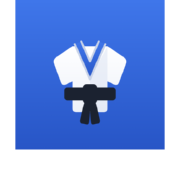
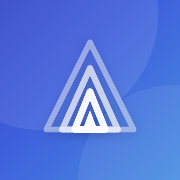
앱 아이콘과 카톡 미리보기 이미지를 새 디자인으로 교체
상단 배너를 원래의 파란 그라데이션으로 되돌린 만큼 아이콘도 맞췄다.

- 도복 그림 대신 배너와 같은 겹친 삼각형(K-STAR 단계) 표식
- 배경은 배너와 같은 파란 그라데이션, 흰 선에 그림자를 넣어
  홈 화면 작은 크기에서도 또렷하게 보이도록 함
- 카톡 미리보기 이미지도 새 아이콘과 새 단계 색(R 빨강 / A 청록 /
  T 보라 / S 파랑)으로 다시 그림
- 아이콘 주소에 ?v=2 를 붙이고 서비스워커 저장소를 v4로 올려
  기기에 남은 옛 아이콘이 계속 쓰이지 않게 함
- manifest theme_color 를 배너 색(#4A63E0)으로 통일

Claude-Session: https://claude.ai/code/session_019X6R4KipJqxm9tG7Tq54df

diff --git a/index.html b/index.html
@@ -4,14 +4,14 @@
 <meta charset="utf-8">
 <meta name="viewport" content="width=device-width,initial-scale=1">
 <title>K-STAR 현황판</title>
-<meta name="theme-color" content="#2B4FE0">
+<meta name="theme-color" content="#4A63E0">
 <meta name="apple-mobile-web-app-capable" content="yes">
 <meta name="mobile-web-app-capable" content="yes">
 <!-- 검색엔진 차단(noindex)은 뺐습니다. 미리보기를 읽어가는 쪽이 막힐 수 있어서입니다.
      로그인 전에는 아무 명단도 보이지 않으므로 공개돼도 노출되는 정보는 없습니다. -->
 <link rel="manifest" href="manifest.json">
-<link rel="icon" href="icon-192.png">
-<link rel="apple-touch-icon" sizes="180x180" href="icon-180.png">
+<link rel="icon" href="icon-192.png?v=2">
+<link rel="apple-touch-icon" sizes="180x180" href="icon-180.png?v=2">
 <meta name="apple-mobile-web-app-capable" content="yes">
 <meta name="apple-mobile-web-app-title" content="K-STAR">
 <meta name="apple-mobile-web-app-status-bar-style" content="default">
@@ -21,8 +21,8 @@
 <meta property="og:title" content="K-STAR 현황판">
 <meta property="og:description" content="내 역량 현황과 다음 단계를 한눈에. 계명대학교 태권도 시범단 역량관리(COMpass K / K-STAR)">
 <meta property="og:url" content="https://kmutkddemoteam.vercel.app/">
-<meta property="og:image" content="https://kmutkddemoteam.vercel.app/og-image.png">
-<meta property="og:image:secure_url" content="https://kmutkddemoteam.vercel.app/og-image.png">
+<meta property="og:image" content="https://kmutkddemoteam.vercel.app/og-image.png?v=2">
+<meta property="og:image:secure_url" content="https://kmutkddemoteam.vercel.app/og-image.png?v=2">
 <meta property="og:image:type" content="image/png">
 <meta property="og:image:width" content="1200">
 <meta property="og:image:height" content="630">
@@ -30,7 +30,7 @@
 <meta name="twitter:card" content="summary_large_image">
 <meta name="twitter:title" content="K-STAR 현황판">
 <meta name="twitter:description" content="내 역량 현황과 다음 단계를 한눈에">
-<meta name="twitter:image" content="https://kmutkddemoteam.vercel.app/og-image.png">
+<meta name="twitter:image" content="https://kmutkddemoteam.vercel.app/og-image.png?v=2">
 <link rel="stylesheet" href="https://fonts.googleapis.com/css2?family=Gowun+Dodum&family=Noto+Sans+KR:wght@400;500;600;700;900&family=JetBrains+Mono:wght@400;500;600&display=swap">
 <style>
 :root{
@@ -356,7 +356,7 @@ function num(v){ var n = Number(v); return isFinite(n) ? n : 0; }
 var API_URL = 'https://script.google.com/macros/s/AKfycbwAFtdwKL3QTGxGSzOiJiwc19kmYAjOwWH2yszp2hy64RD1OClqMN5IOR5y-nx7uhNd/exec';
 
 // 화면 아래에 표시되는 판 번호. 고칠 때마다 올린다.
-var APP_VERSION = '2026-09-16 i';
+var APP_VERSION = '2026-09-16 j';
 
 /* ============ store: 서버 → 아티팩트DB → 기기저장 순으로 사용 ============ */
 var db = null, fallbackMode = false, fallbackData = {};

diff --git a/sw.js b/sw.js
@@ -1,4 +1,4 @@
-const CACHE = 'kstar-v3';
+const CACHE = 'kstar-v4';
 
 // 새 버전이 올라오면 기다리지 않고 바로 넘겨받는다.
 self.addEventListener('install', function(){ self.skipWaiting(); });
